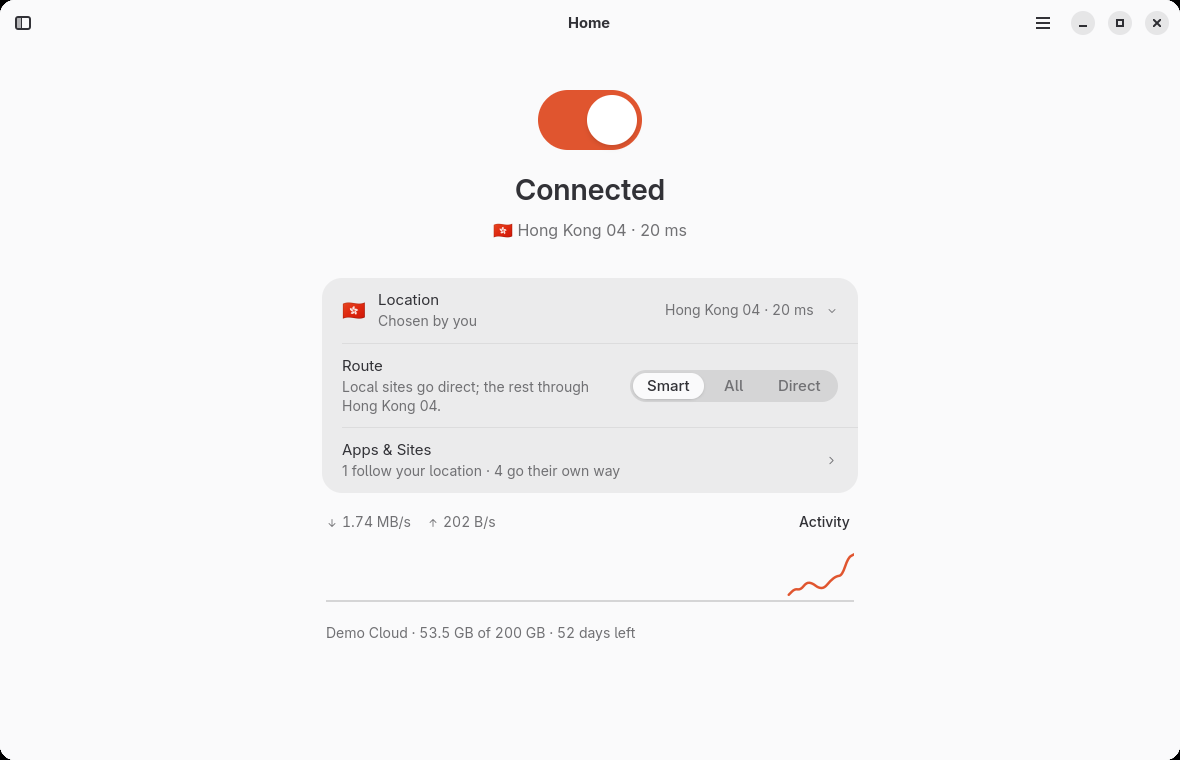
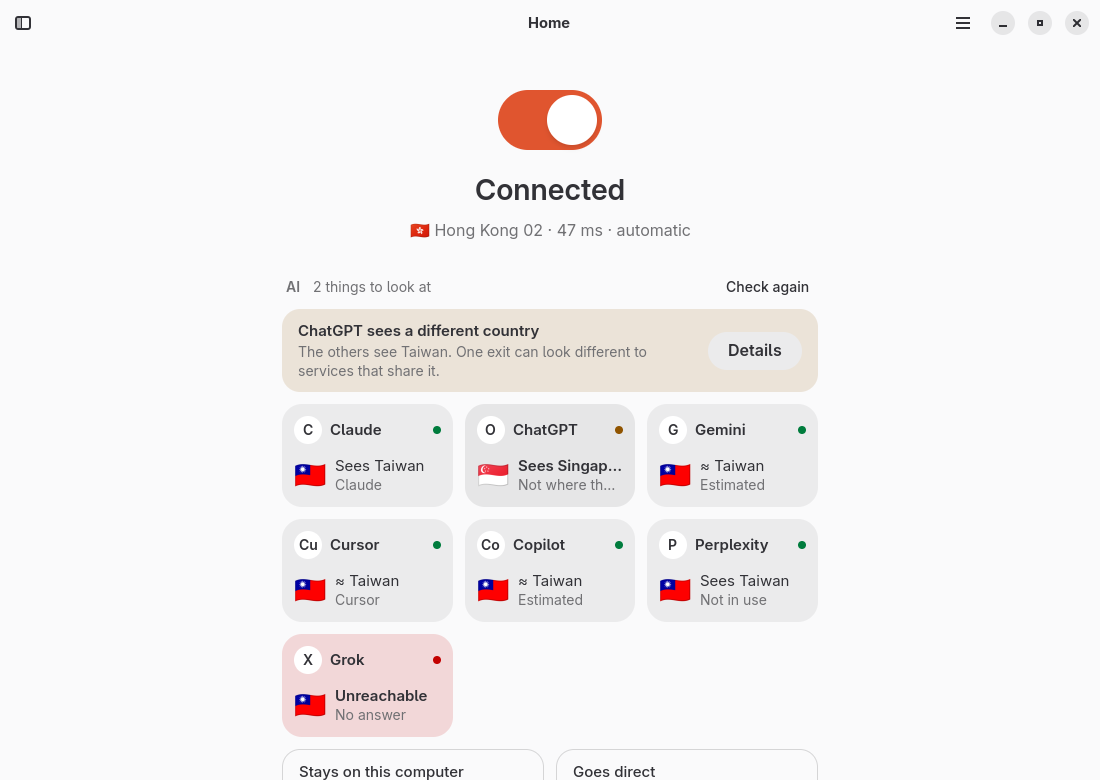
Landing: new positioning and real shots (Home with the AI board, Activity, a service's detail); README shot

diff --git a/site/index.html b/site/index.html
@@ -3,10 +3,10 @@
 <head>
 <meta charset="utf-8">
 <meta name="viewport" content="width=device-width, initial-scale=1">
-<title>Kairo — a native client for mihomo</title>
-<meta name="description" content="A clean, native mihomo client for macOS and Linux.">
-<meta property="og:title" content="Kairo — a native client for mihomo">
-<meta property="og:description" content="A clean, native mihomo client for macOS and Linux.">
+<title>Kairo — your AI tools, one way out</title>
+<meta name="description" content="A native proxy client for AI work on macOS and Linux. Your AI tools go out through one exit that stays put, and you see what each service sees.">
+<meta property="og:title" content="Kairo — your AI tools, one way out">
+<meta property="og:description" content="A native proxy client for AI work on macOS and Linux. One exit that stays put, and what each AI service sees.">
 <meta property="og:image" content="https://daoleno.github.io/kairo/shots/home-light.webp">
 <meta name="color-scheme" content="light dark">
 <link rel="icon" href="icon.svg" type="image/svg+xml">
@@ -160,8 +160,8 @@ footer .wrap { display: flex; flex-wrap: wrap; gap: 8px 24px; justify-content: s
 
 <main>
   <div class="wrap hero">
-    <h1>mihomo, made native.</h1>
-    <p class="lede">A clean, native mihomo client for macOS and Linux.</p>
+    <h1>Your AI tools, one way out.</h1>
+    <p class="lede">Claude, ChatGPT, Gemini and Cursor go through the same exit, and stay there. Kairo shows what each service sees. A native mihomo client for macOS and Linux.</p>
     <div class="actions">
       <a class="btn primary" id="primary" href="https://github.com/daoleno/kairo/releases/latest">
         <svg viewBox="0 0 16 16" fill="none" stroke="currentColor" stroke-width="1.8" stroke-linecap="round" stroke-linejoin="round"><path d="M8 2v9M4 7.5 8 11.5l4-4M3 14h10"/></svg>
@@ -179,10 +179,10 @@ footer .wrap { display: flex; flex-wrap: wrap; gap: 8px 24px; justify-content: s
     </div>
     <figure class="hero-shot">
       <div class="window">
-        <img class="shot-light" src="shots/home-light.webp" width="1180" height="760" alt="Kairo's Home: a large switch, Connected through Hong Kong 04, and the Location, Route and Apps &amp; Sites rows.">
-        <img class="shot-dark" src="shots/home-dark.webp" width="1180" height="760" alt="Kairo's Home in dark mode." loading="lazy">
+        <img class="shot-light" src="shots/home-light.webp" width="1100" height="780" alt="Kairo's Home: a tile for each AI service with the country it sees and the tools using it, then the Location, AI exit, Route and Apps &amp; Sites rows.">
+        <img class="shot-dark" src="shots/home-dark.webp" width="1100" height="780" alt="Kairo's Home in dark mode." loading="lazy">
       </div>
-      <figcaption><b>Home</b></figcaption>
+      <figcaption><b>Home</b> <span style="color:var(--muted)">· one tile per AI service: what Kairo measured, nothing more</span></figcaption>
     </figure>
   </div>
 
@@ -190,59 +190,41 @@ footer .wrap { display: flex; flex-wrap: wrap; gap: 8px 24px; justify-content: s
     <div class="gallery">
       <figure>
         <div class="window">
-          <img class="shot-light" src="shots/location-light.webp" width="1180" height="760" alt="The Location popover: search, Fastest, and places grouped by region with their delays." loading="lazy">
-          <img class="shot-dark" src="shots/location-dark.webp" width="1180" height="760" alt="Locations in dark mode." loading="lazy">
+          <img class="shot-light" src="shots/activity-light.webp" width="1100" height="330" alt="Activity: Claude, Codex and Cursor on the left, the AI exit in the middle, ChatGPT, Claude and Cursor on the right, joined by lines as thick as the traffic." loading="lazy">
+          <img class="shot-dark" src="shots/activity-dark.webp" width="1100" height="330" alt="Activity in dark mode." loading="lazy">
         </div>
-        <figcaption><b>Locations</b></figcaption>
+        <figcaption><b>Activity</b> <span>· which tool talks to which service, and the way it goes</span></figcaption>
       </figure>
       <figure>
         <div class="window">
-          <img class="shot-light" src="shots/apps-light.webp" width="1180" height="760" alt="Apps &amp; Sites: the subscription's per-app groups, each with one choice." loading="lazy">
-          <img class="shot-dark" src="shots/apps-dark.webp" width="1180" height="760" alt="Apps &amp; Sites in dark mode." loading="lazy">
+          <img class="shot-light" src="shots/detail-light.webp" width="1100" height="1040" alt="The Claude tile opened: reachable, the API answers in 498 ms, the country it sees, and a connection held open for 90 seconds." loading="lazy">
+          <img class="shot-dark" src="shots/detail-dark.webp" width="1100" height="1040" alt="The service detail in dark mode." loading="lazy">
         </div>
-        <figcaption><b>Apps &amp; Sites</b></figcaption>
+        <figcaption><b>What was measured</b> <span>· reachable, API, country, a connection held open</span></figcaption>
+      </figure>
+      <figure>
+        <div class="window">
+          <img class="shot-light" src="shots/location-light.webp" width="1180" height="760" alt="The Location popover: search, Fastest, and places grouped by region with their delays." loading="lazy">
+          <img class="shot-dark" src="shots/location-dark.webp" width="1180" height="760" alt="Locations in dark mode." loading="lazy">
+        </div>
+        <figcaption><b>Locations</b> <span>· the AI exit has its own row and stays when this changes</span></figcaption>
       </figure>
       <figure>
         <div class="window">
           <img class="shot-light" src="shots/groups-light.webp" width="1180" height="760" alt="Groups: the subscription's groups, and the selected group's members with their delays." loading="lazy">
           <img class="shot-dark" src="shots/groups-dark.webp" width="1180" height="760" alt="Groups in dark mode." loading="lazy">
         </div>
-        <figcaption><b>Advanced</b></figcaption>
-      </figure>
-      <figure>
-        <div class="window">
-          <img class="shot-light" src="shots/connections-light.webp" width="1180" height="760" alt="Connections: a live, searchable table." loading="lazy">
-          <img class="shot-dark" src="shots/connections-dark.webp" width="1180" height="760" alt="Connections in dark mode." loading="lazy">
-        </div>
-        <figcaption><b>Connections</b></figcaption>
+        <figcaption><b>Advanced</b> <span>· every group, rule, connection and log, as mihomo has them</span></figcaption>
       </figure>
     </div>
 
     <div class="facts">
-      <div><b>Native</b><span>AppKit and Liquid Glass on the Mac, GTK 4 on Linux.</span></div>
+      <div><b>One exit, pinned</b><span>AI tools stay on it when the Location changes. Open connections are never cut.</span></div>
+      <div><b>Measured, not promised</b><span>Reachable, API answer, the country a service sees, a connection held for 90 seconds.</span></div>
+      <div><b>Direct where it should be</b><span>Domestic AI goes straight out. Local models never leave your computer.</span></div>
       <div><b>mihomo built in</b><span>The official core ships inside and updates with the app.</span></div>
-      <div><b>All of mihomo</b><span>Rules, groups, connections, logs, DNS and TUN.</span></div>
-      <div><b>In the menu bar</b><span>Connect and switch location without opening the window.</span></div>
     </div>
-  </section>
-
-  <section class="wrap" id="platforms">
-    <div class="platforms">
-      <figure>
-        <div class="window">
-          <img class="shot-light" src="shots/home-light.webp" width="1180" height="760" alt="Kairo on GNOME." loading="lazy">
-          <img class="shot-dark" src="shots/home-dark.webp" width="1180" height="760" alt="Kairo on GNOME in dark mode." loading="lazy">
-        </div>
-        <figcaption><b>GNOME</b></figcaption>
-      </figure>
-      <figure>
-        <div class="window">
-          <img class="shot-light" src="shots/kde-home-light.webp" width="1180" height="760" alt="Kairo on KDE Plasma with Breeze." loading="lazy">
-          <img class="shot-dark" src="shots/kde-home-dark.webp" width="1180" height="760" alt="Kairo on KDE Plasma with Breeze Dark." loading="lazy">
-        </div>
-        <figcaption><b>KDE Plasma</b></figcaption>
-      </figure>
-    </div>
+    <p class="note">Kairo shows what a service sees. Where you are, and the service's own terms, still apply.</p>
   </section>
 
   <section class="wrap" id="download">
